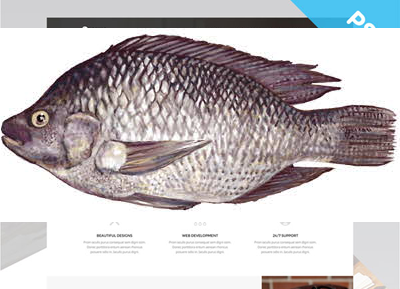
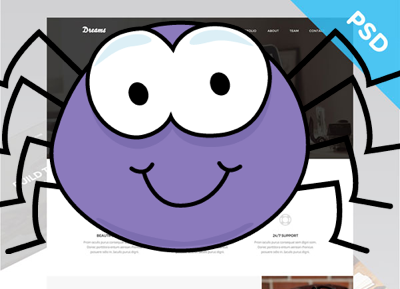
web design

diff --git a/index.html b/index.html
@@ -244,8 +244,8 @@ threesome — http://howaboutathreeso.me/ (we fucking have to make this)</h3>
                         <img src="img/portfolio/dreams.png" class="img-responsive" alt="">
                     </a>
                     <div class="portfolio-caption">
-                        <h4>trash fish</h4>
-                        <p class="text-muted">swimming</p>
+                        <h4>WEB DESIGN</h4>
+                        <p class="text-muted">haha</p>
                     </div>
                 </div>
             </div>
